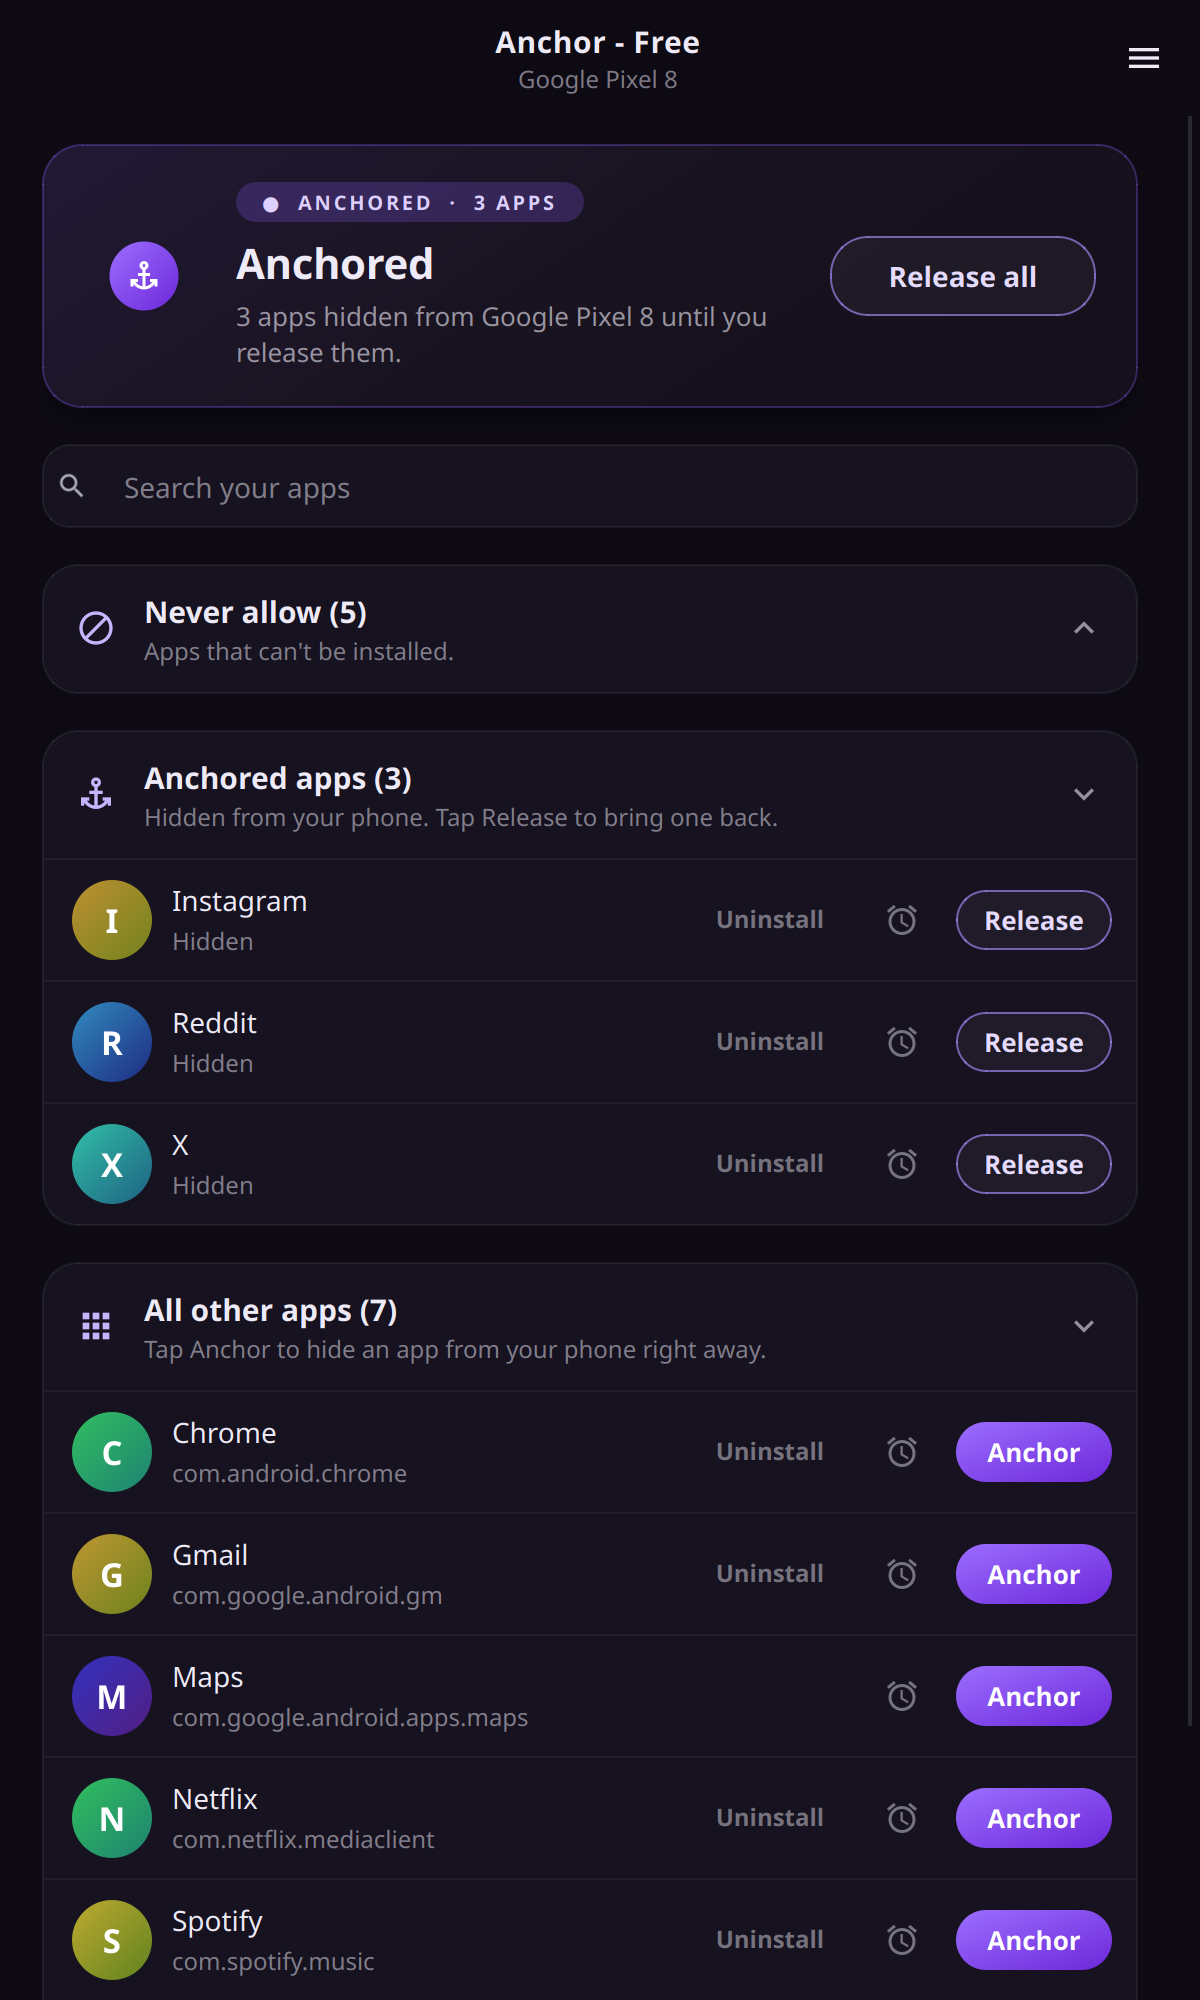
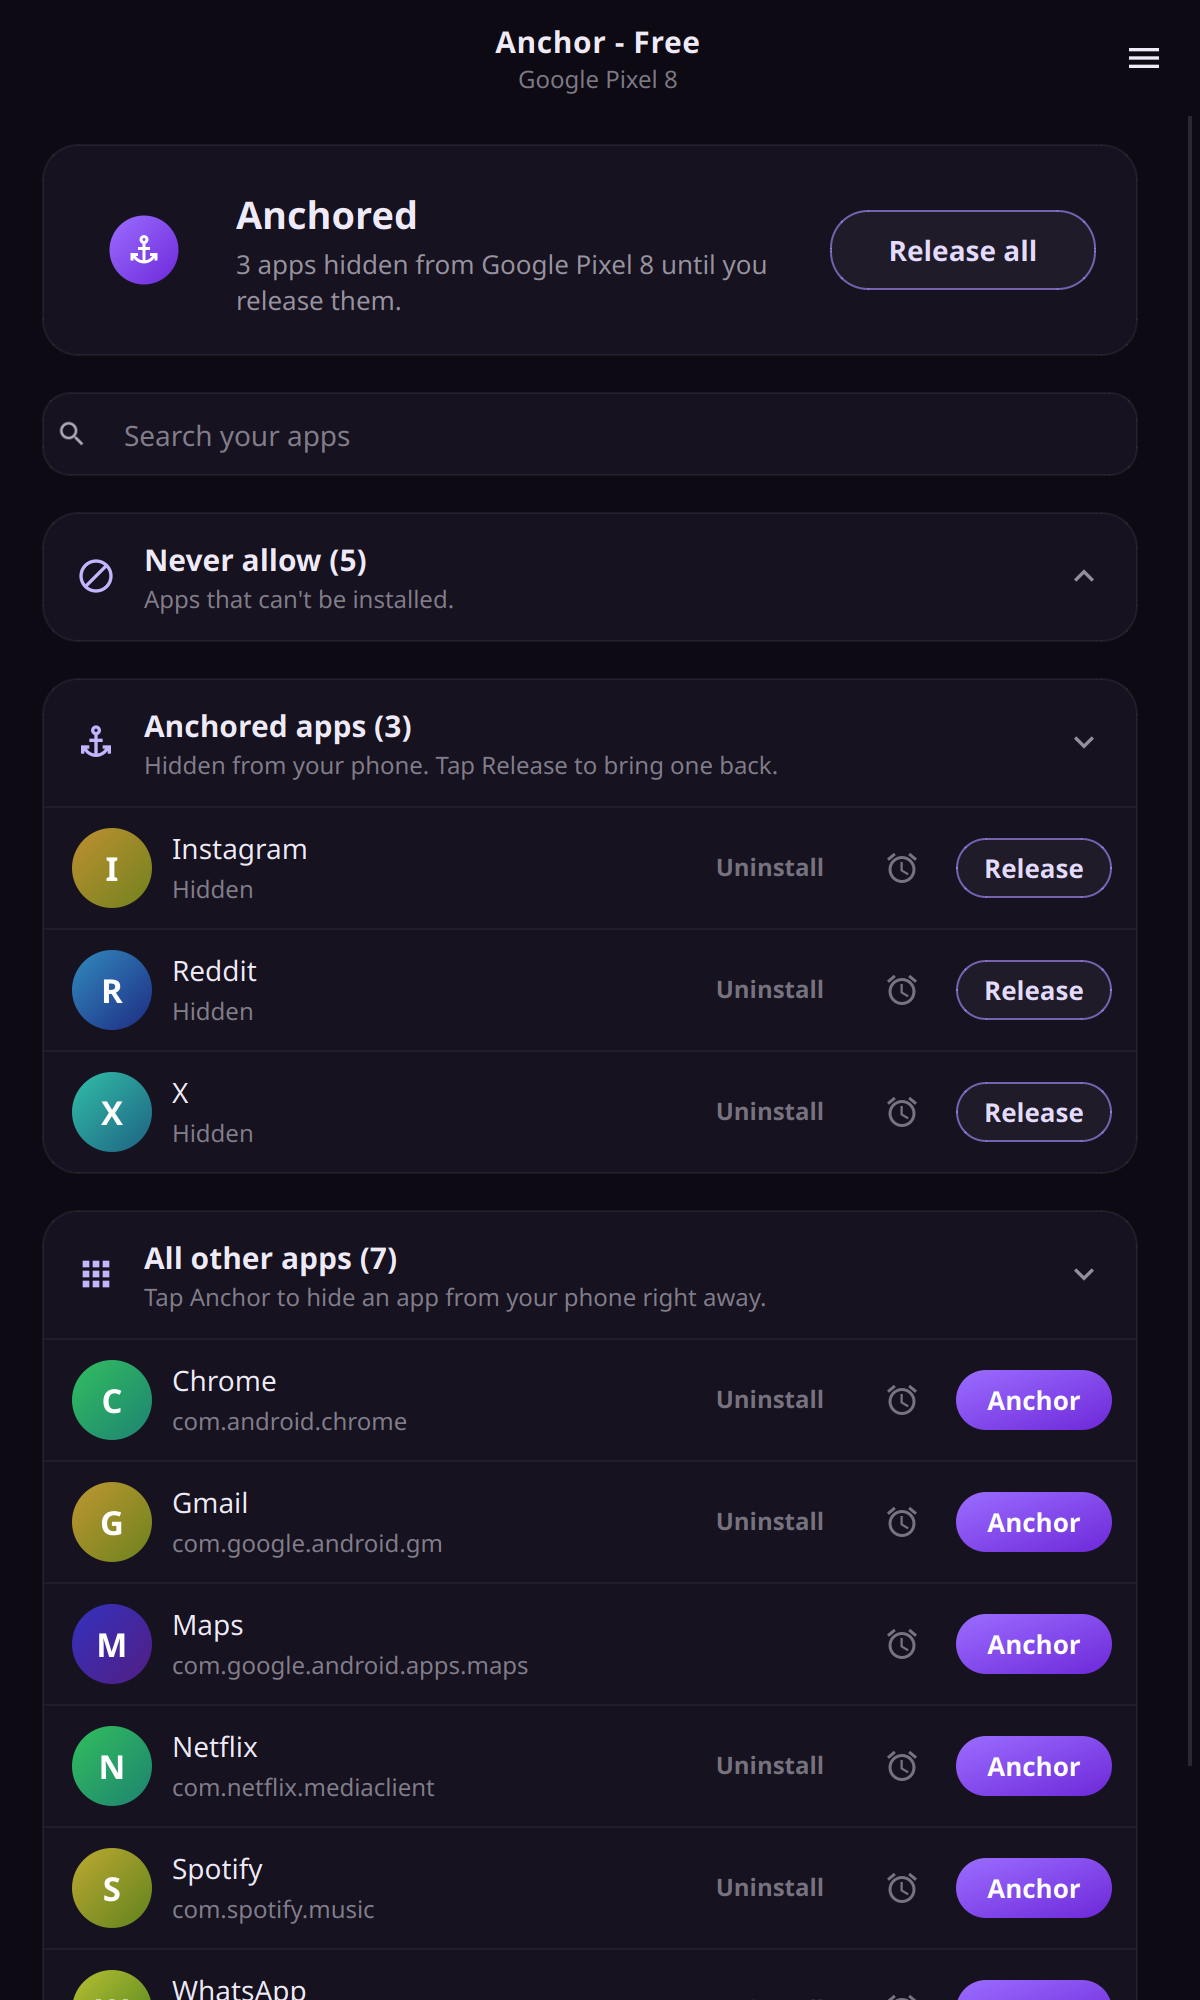
update

diff --git a/free/linux/desktop/anchor.py b/free/linux/desktop/anchor.py
@@ -69,26 +69,12 @@ headerbar .subtitle { color: alpha(@window_fg_color, 0.5); }
 /* ---- Status bar ---- */
 .hero {
   padding: 18px 20px;
-  border-radius: 20px;
-  border: 1px solid alpha(white, 0.06);
-  background-image: linear-gradient(180deg, #17131F, #13101A);
-  box-shadow: 0 6px 18px alpha(black, 0.3);
+  border-radius: 18px;
+  background-color: #16121F;
+  box-shadow: 0 0 0 1px alpha(white, 0.06);
 }
-.hero.anchored {
-  border-color: alpha(#8B5CF6, 0.32);
-  background-image: linear-gradient(100deg, alpha(#7C3AED, 0.16), alpha(#7C3AED, 0.04) 60%),
-                    linear-gradient(180deg, #19141F, #13101A);
-  box-shadow: 0 6px 18px alpha(black, 0.3);
-}
-.hero-title { font-size: 1.45em; font-weight: 800; letter-spacing: -0.2px; }
+.hero-title { font-size: 1.3em; font-weight: 700; }
 .hero-subtitle { color: alpha(@window_fg_color, 0.6); font-size: 0.93em; }
-.chip {
-  font-size: 0.68em; font-weight: 800; letter-spacing: 1.4px;
-  padding: 2px 10px; border-radius: 999px;
-  color: alpha(@window_fg_color, 0.55);
-  background-color: alpha(white, 0.06);
-}
-.hero.anchored .chip { color: #DCD0FF; background-color: alpha(#8B5CF6, 0.24); }
 
 /* ---- Buttons ---- */
 .cta {
@@ -456,10 +442,7 @@ class AnchorWindow(Adw.ApplicationWindow):
         self.hero.append(self.hero_icon)
 
         text = Gtk.Box(orientation=Gtk.Orientation.VERTICAL, spacing=3, hexpand=True, valign=Gtk.Align.CENTER)
-        self.hero_chip = Gtk.Label(halign=Gtk.Align.START)
-        self.hero_chip.add_css_class("chip")
-        text.append(self.hero_chip)
-        self.hero_title = Gtk.Label(xalign=0, margin_top=3)
+        self.hero_title = Gtk.Label(xalign=0)
         self.hero_title.add_css_class("hero-title")
         text.append(self.hero_title)
         self.hero_subtitle = Gtk.Label(wrap=True, xalign=0, max_width_chars=38)
@@ -1247,7 +1230,6 @@ class AnchorWindow(Adw.ApplicationWindow):
         scheduled_now = st.get("scheduled_now", {})
         n = len(self.selected)
         anchored = n > 0
-        hidden_count = len(st.get("blocked", []))
         on_schedule = ""
         if scheduled_now:
             names = sorted(self.rows[p].label if p in self.rows else p for p in scheduled_now)
@@ -1260,12 +1242,9 @@ class AnchorWindow(Adw.ApplicationWindow):
         if anchored or scheduled_now:
             self.hero.add_css_class("anchored")
             self.hero_icon.set_from_icon_name("anchor-orb-on")
-            self.hero_chip.set_label((("●  ANCHORED" if anchored else "●  ON SCHEDULE") +
-                                      f"  ·  {plural(hidden_count, 'app')}").upper())
         else:
             self.hero.remove_css_class("anchored")
             self.hero_icon.set_from_icon_name("anchor-orb-off")
-            self.hero_chip.set_label("NOT ANCHORED")
         if anchored:
             if mode == "timer":
                 self.hero_title.set_label(f"Anchored until {clock(ends)}")

diff --git a/free/windows/desktop/anchor.py b/free/windows/desktop/anchor.py
@@ -392,8 +392,6 @@ class AnchorWindow(QMainWindow):
         hero.addWidget(self.hero_icon, 0, 0, Qt.AlignVCenter)
         text = QVBoxLayout()
         text.setSpacing(3)
-        self.hero_chip = w.label("", "chip")
-        text.addWidget(self.hero_chip, 0, Qt.AlignLeft)
         self.hero_title = w.label("", "heroTitle")
         text.addSpacing(3)
         text.addWidget(self.hero_title)
@@ -410,7 +408,6 @@ class AnchorWindow(QMainWindow):
         actions.addWidget(self.pause_button, 0, Qt.AlignHCenter)
         hero.addLayout(actions, 0, 2, Qt.AlignVCenter)
         self.hero_narrow = False
-        w.shadow(self.hero, 30, 80, 6)
         lay.addWidget(self.hero)
 
         self.search = QLineEdit()
@@ -1139,7 +1136,6 @@ class AnchorWindow(QMainWindow):
         scheduled_now = st.get("scheduled_now", {})
         n = len(self.selected)
         anchored = n > 0
-        hidden_count = len(st.get("blocked", []))
         on_schedule = ""
         if scheduled_now:
             names = sorted(self.rows[p].label if p in self.rows else p for p in scheduled_now)
@@ -1151,13 +1147,7 @@ class AnchorWindow(QMainWindow):
         self.pause_button.setVisible(bool(scheduled_now) and not anchored)
         lit = anchored or bool(scheduled_now)
         w.set_flag(self.hero, "anchored", lit)
-        w.set_flag(self.hero_chip, "anchored", lit)
         self.hero_icon.setPixmap(w.picture("anchor-orb-on.svg" if lit else "anchor-orb-off.svg", 60))
-        if lit:
-            self.hero_chip.setText((("●  ANCHORED" if anchored else "●  ON SCHEDULE") +
-                                    f"  ·  {plural(hidden_count, 'app')}").upper())
-        else:
-            self.hero_chip.setText("NOT ANCHORED")
         if anchored:
             if mode == "timer":
                 self.hero_title.setText(f"Anchored until {clock(ends)}")

diff --git a/free/windows/tests/test_gui.py b/free/windows/tests/test_gui.py
@@ -20,7 +20,6 @@ from PySide6.QtWidgets import QApplication, QPlainTextEdit, QPushButton  # noqa:
 
 import anchor  # noqa: E402
 import platform_support as plat  # noqa: E402
-import theme  # noqa: E402
 import widgets  # noqa: E402
 
 REAL_ERROR_DIALOG = anchor.AnchorWindow.error_dialog
@@ -269,7 +268,7 @@ class GuiTest(unittest.TestCase):
         self.open(self.ready_phone())
         self.wait_page("main")
         self.assertEqual(self.win.hero_title.text(), "Not anchored")
-        self.assertEqual(self.win.hero_chip.text(), "NOT ANCHORED")
+        self.assertEqual(self.win.hero_title.text(), "Not anchored")
         self.assertFalse(shown(self.win.hero_button), "nothing to release")
         self.assertEqual({r.anchor_button.text() for r in self.win.rows.values()}, {"Anchor"})
         self.assertFalse(shown(self.win.picked_section), "no empty Anchored section")
@@ -288,8 +287,7 @@ class GuiTest(unittest.TestCase):
         self.assertEqual(self.win.picked_section.title_label.text(), "Anchored apps (1)")
         self.assertEqual(self.win.hero_title.text(), "Anchored")
         self.assertEqual(self.win.hero_button.text(), "Release all")
-        self.assertTrue(self.win.hero.property("anchored"), "the card is tinted while anchored")
-        self.assertIn('#hero[anchored="true"]', theme.STYLE, "and the style sheet styles that")
+        self.assertTrue(self.win.hero.property("anchored"), "the logo lights up while anchored")
         self.assertEqual(self.toasts[-1], "Instagram anchored: hidden from your phone")
 
     def test_release_one_app(self):

diff --git a/free/linux/tests/test_gui.py b/free/linux/tests/test_gui.py
@@ -257,7 +257,7 @@ class GuiTest(unittest.TestCase):
         self.open(self.ready_phone())
         self.wait_page("main")
         self.assertEqual(self.win.hero_title.get_label(), "Not anchored")
-        self.assertEqual(self.win.hero_chip.get_label(), "NOT ANCHORED")
+        self.assertEqual(self.win.hero_title.get_label(), "Not anchored")
         self.assertFalse(self.win.hero_button.get_visible(), "nothing to release")
         self.assertEqual({r.anchor_button.get_label() for r in self.win.rows.values()}, {"Anchor"})
         self.assertFalse(self.win.picked_title.section.get_visible(), "no empty Anchored section")
@@ -276,8 +276,7 @@ class GuiTest(unittest.TestCase):
         self.assertEqual(self.win.picked_title.get_label(), "Anchored apps (1)")
         self.assertEqual(self.win.hero_title.get_label(), "Anchored")
         self.assertEqual(self.win.hero_button.get_label(), "Release all")
-        self.assertTrue(self.win.hero.has_css_class("anchored"), "the card is tinted while anchored")
-        self.assertIn(".hero.anchored", anchor.CSS, "and the CSS styles that class")
+        self.assertEqual(self.win.hero_icon.get_icon_name(), "anchor-orb-on", "the logo lights up while anchored")
         self.assertEqual(self.toasts[-1], "Instagram anchored: hidden from your phone")
 
     def test_release_one_app(self):

diff --git a/free/windows/desktop/theme.py b/free/windows/desktop/theme.py
@@ -52,15 +52,9 @@ QScrollBar::add-line, QScrollBar::sub-line, QScrollBar::add-page, QScrollBar::su
 QScrollBar:horizontal {{ height: 0; }}
 
 /* ---- Status bar (hero) ---- */
-#hero {{ border-radius: 20px; border: 1px solid {BORDER};
-         background: qlineargradient(x1:0, y1:0, x2:0, y2:1, stop:0 #17131F, stop:1 #13101A); }}
-#hero[anchored="true"] {{ border: 1px solid rgba(139, 92, 246, 0.32);
-         background: qlineargradient(x1:0, y1:0, x2:1, y2:0.35, stop:0 #221934, stop:0.6 #18131F, stop:1 #15111C); }}
-#heroTitle {{ font-size: 21px; font-weight: 800; letter-spacing: -0.2px; }}
+#hero {{ border-radius: 18px; border: 1px solid {BORDER}; background: {CARD}; }}
+#heroTitle {{ font-size: 19px; font-weight: 700; }}
 #heroSubtitle {{ color: rgba(238, 234, 247, 0.6); font-size: 13px; }}
-#chip {{ font-size: 10px; font-weight: 800; letter-spacing: 1.4px; padding: 3px 10px; border-radius: 10px;
-         color: rgba(238, 234, 247, 0.55); background: rgba(255, 255, 255, 0.06); }}
-#chip[anchored="true"] {{ color: #DCD0FF; background: rgba(139, 92, 246, 0.24); }}
 
 /* ---- Buttons ---- */
 QPushButton {{ border: none; background: transparent; }}
